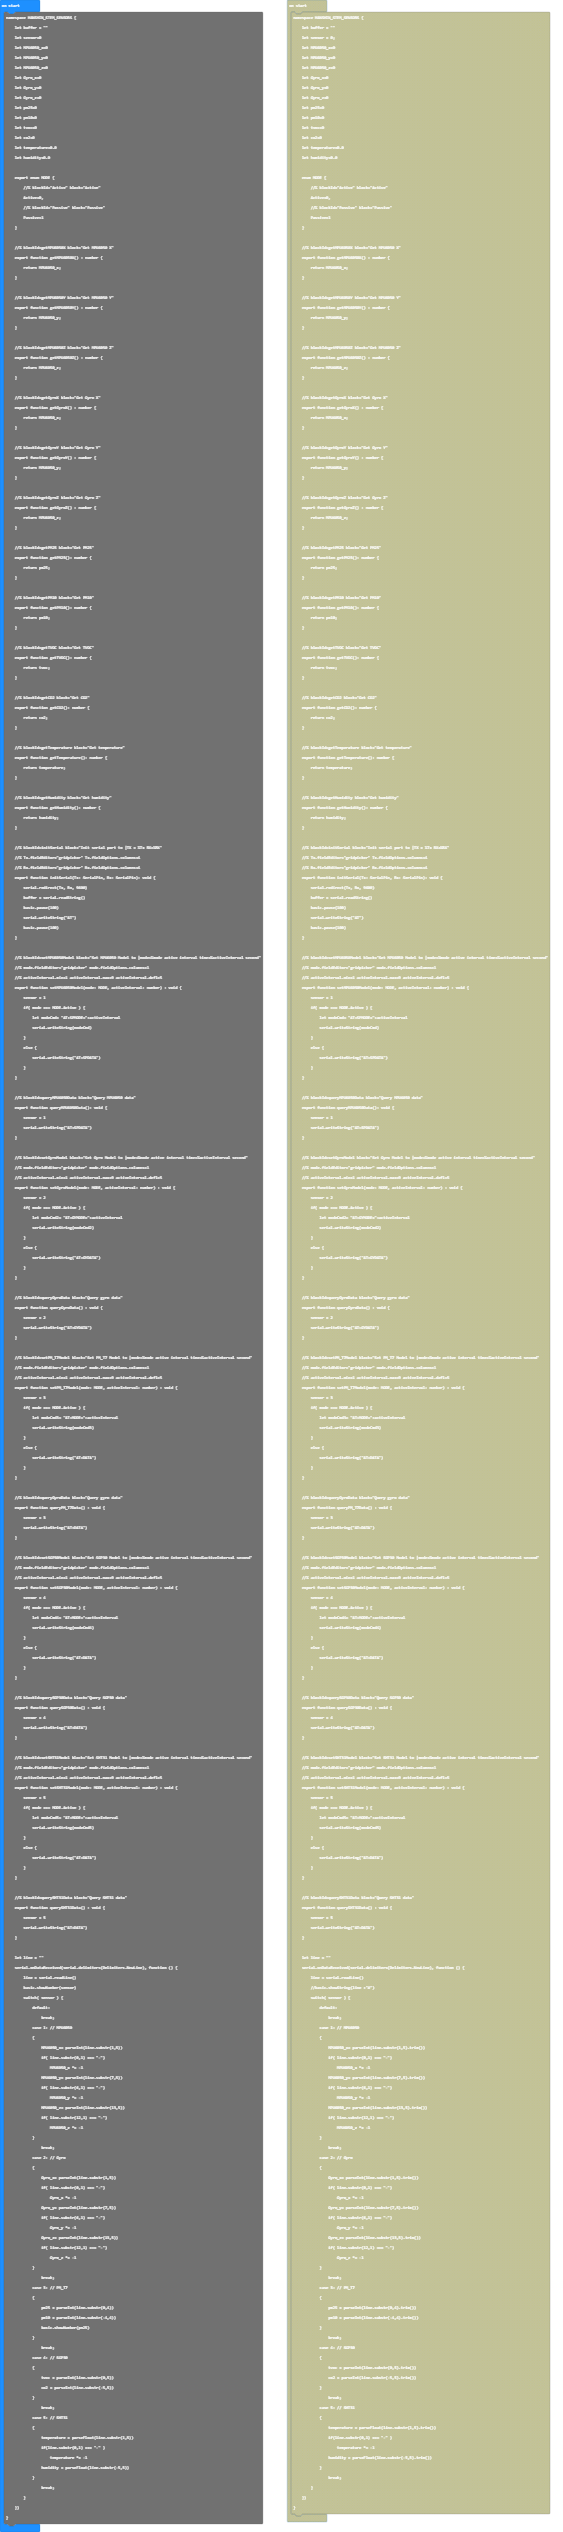
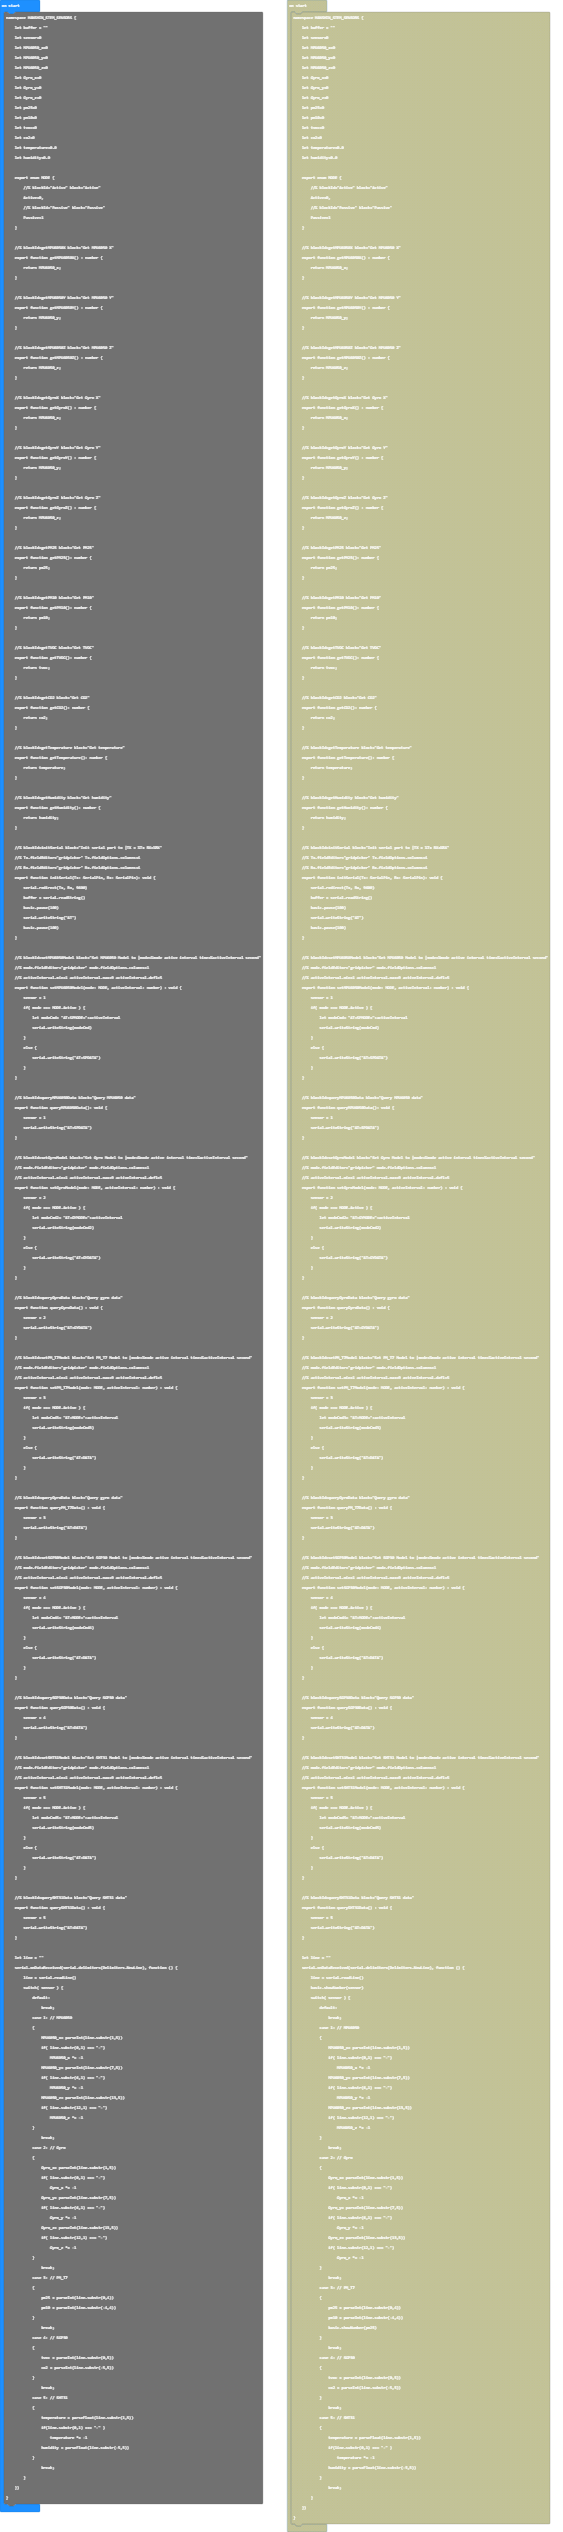
Update main.blocks, main.ts, test.ts

Changed region(s): [[0.0, 0.78, 0.4831, 1.0], [0.4831, 0.9048, 0.9663, 1.0]]

diff --git a/main.ts b/main.ts
@@ -1,4 +1,3 @@
-//% weight=10 color=#1E90FF icon="\uf136"
 namespace HANSHIN_STEM_SENSORS {
     let buffer = ""
     let sensor=0
@@ -229,7 +228,6 @@ namespace HANSHIN_STEM_SENSORS {
             {
                 pm25 = parseInt(line.substr(0,4))
                 pm10 = parseInt(line.substr(-4,4))
-                basic.showNumber(pm25)
             }
                 break;
             case 4: // SGP30 

diff --git a/test.ts b/test.ts
@@ -1,0 +1,9 @@
+input.onButtonPressed(Button.A, function () {
+    HANSHIN_STEM_SENSORS.initSerial(SerialPin.P16, SerialPin.P8)
+   HANSHIN_STEM_SENSORS.setPM_T7Model(HANSHIN_STEM_SENSORS.MODE.Active, 3)  
+})
+
+basic.forever(function () {
+    basic.pause(3000)
+  basic.showNumber(HANSHIN_STEM_SENSORS.getPM25())  
+})
